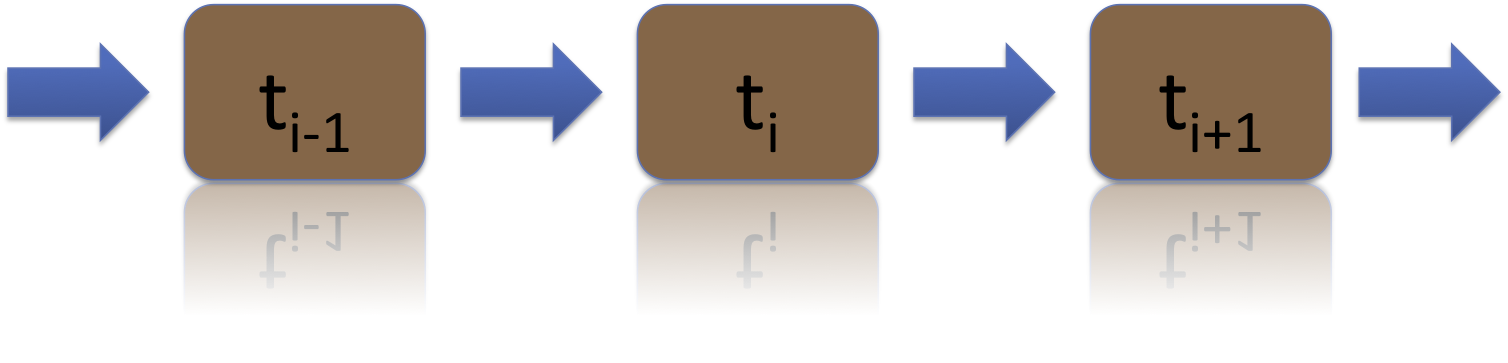
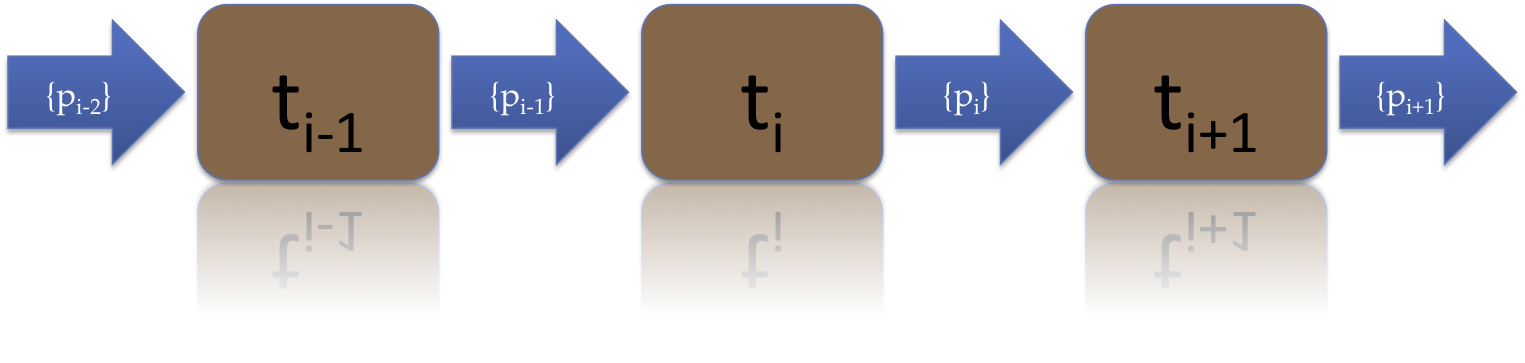
updated README

diff --git a/README.md b/README.md
@@ -99,10 +99,38 @@ Graciously, Specific Technologies provided me the raw data from their publicatio
 
 ## <a name="series"></a> Designing a Cascading, Series Model
 
+To build a model that will function appropriately on-board a piece of diagnostic equiment, it needs to provide the answers to all three of detection, gram, indentification questions as well as handle incoming data the same way it would be received in real time.  To do this, I built a custom a **cascading, series model**, which I explain below.
+
 ### Cascading
 
-#### Figure Three - Classification Cascde
+It's a cascading model because, at each timestep, it answers the three questions in series and feeds the results of each forward (down the psuedo decision tree).  At each timestep, the model predicts detection first, and feeds the probability of positive as a feature to the gram model.  The gram model, similarly, feeds the gram positive and gram negative probabilities forward to the classification model, and the classification model also accepts the detection positive probability.  This is shown diagramatically in Figure Three.  
+
+#### Figure Three - Classification Cascade
+*Cascading models for classification.  At each timestep, a detection model first predicts probabilities of each case.  The positive detection probability is fed forwad to the gram model, and the gram positive and gram negative probabilities (again, the control probability is omitted to maintain linear independence of the features) to the classification model.*
 ![Figure Three - cascade](img/cascade.png)
+
+I had a couple of choices here and chose a cascading model due to not only its uniqueness, but also its flexibility.  You could build a flat classifier (predicts one of 17 bacterial species plus control), but it may not be as sensitive to control versus not control (i.e. detection negative or detection positive) than a model trained to do that exclusively.  Similarly, you could build a stacked model, where you don't attempt to answer the gram question until you are certain (i.e. crossed a certain threshold) on the detection question; then, you'd build a gram positive model to distinguish gram positive species if your gram model crossed a certain gram positive threshold, and a similar setup for the gram negative bacterial species.  
+
+You might expect a stacked model to do the best job at distinguishing individual species of bacteria, since each of the sub-models has fewer classes to distinguish.  But I believe it will be slower (i.e. take more timesteps to predict accurately) because you are delaying any decisions about later questions until you are sure about the earlier questions.  You could correct that by model tuning to have, for example, a very low threshold for detection positive, but this could quickly lead to a lot of false positives.  It also leads to a less flexible structure for implementation with future models.
+
+A cascading model, on the other hand, can update answers to all three questions simultaneously while using the probabilities from decisions higher-up the decision tree to pseudo-limit the number of classes each model subsequent model has to look at.  This is all handled via the SeriesModel class in seriesmodel.py
+
+Although I haven't implemented these options yet (it's a relatively straightforward patch I look to add in a future release) to directly compare performance between the three model types, it would certainly be worth the future efforts to see if my intuition is correct.
+
+### Series
+
+It's a series of models because it needs to answer the question of how quicly can you diagnose my sepsis, not just how accutately.  Consider again Figure Two, where the data extends to 18 hours.  Could you make the same predicitions about species if you only had, for example, half of the data (up to 9 hours)?  What about at 12 hours?  Since my objective is to not just accurately, but also quickly diagnose sepsis, early time model performance is extremely important.  Class difference at early times are much more subtle than at later times, so you would expect a model trained with 18 hours of data to perform poorly on only 6 hours of data, and vice versa (not to mention that, unless you are smart in your feature extraction, they are likely to require different numbers of features).
+
+To allow for course correction or increasing confidence of one diagnosis or the next, the models should inform each other.  I like to think of the "did I miss my turn" example when you're trying to get some place you haven't been to before.  Shortly after missing your turn, you might not be particularly confident one way or the other.  But as time continues and you continue to see unexpected landmarks, you would become more concerned.  It's not a memory-less process: each individual unexpected steet sign might not, on its own, convince you that your lost,  but their repeated observation is what makes you turn around.
+
+To accomplish this, I built a series of cascading models where the probabilities at the previous timestep are fed as additional features to the current timestep, shown diagrammatically in Figure Four.
+
+
+#### Figure Four - Series of Models
+
+*A series of cascading models is constructed, where the set of probabilities from model built with i-1 timesteps, {p<sub>i-1</sub>}, is fed to the model cascade at time t<sub>i</sub>.*
+
+![Figure Four - series](img/series.png)
 
 ## <a name="features"></a> Longitudinal Analysis
 
